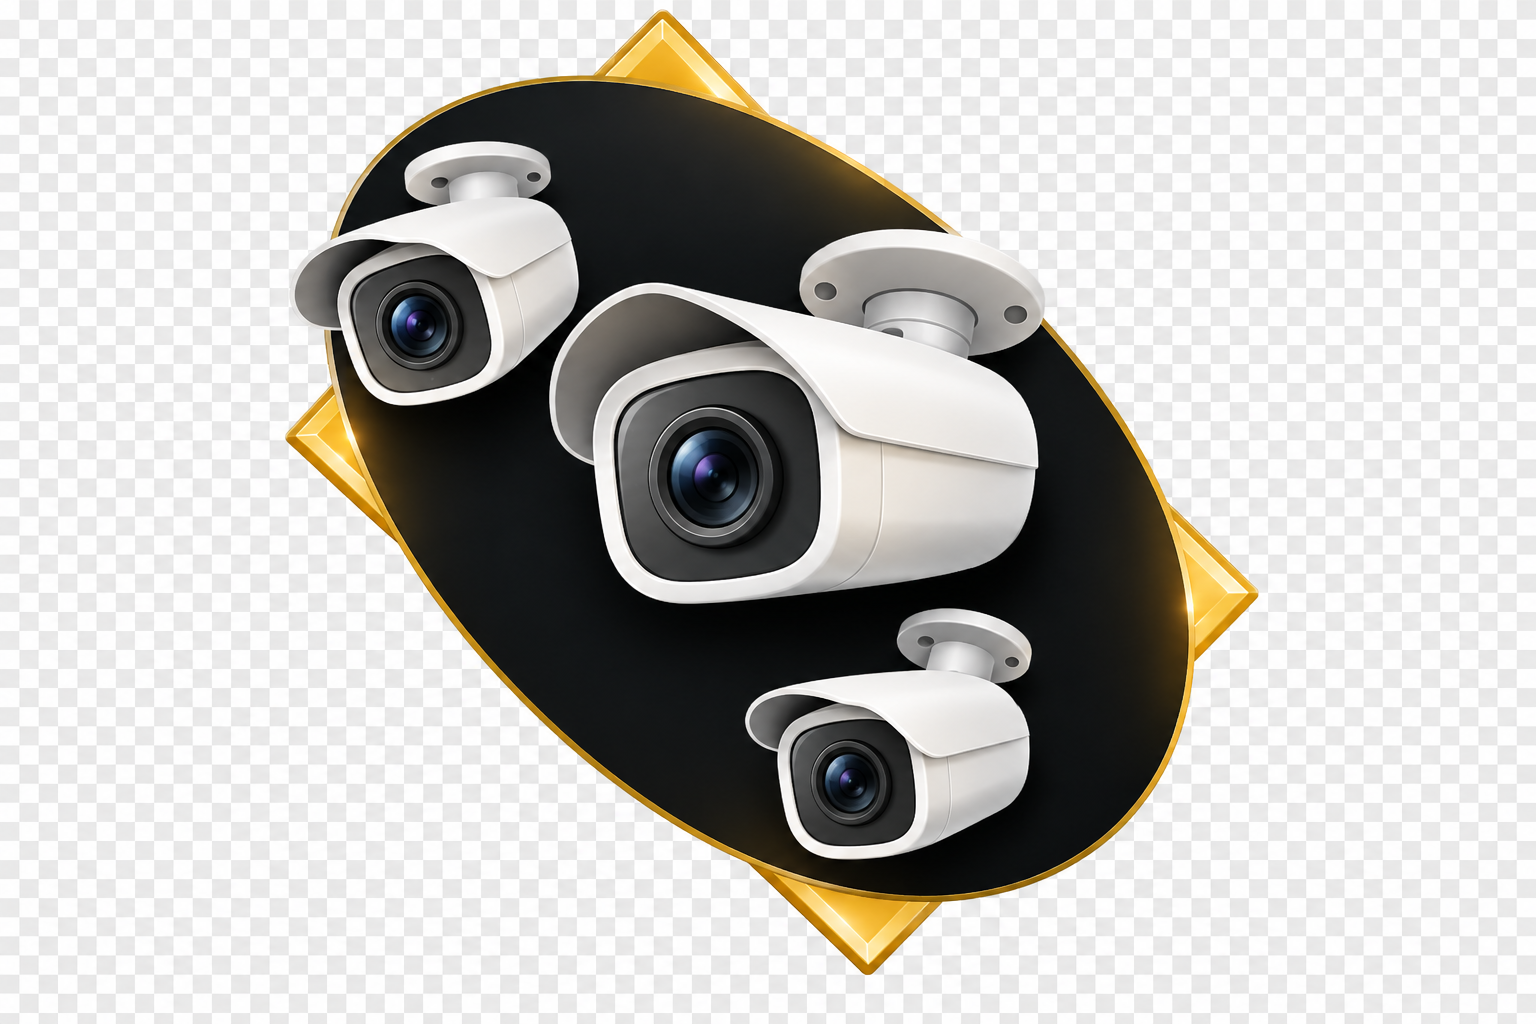
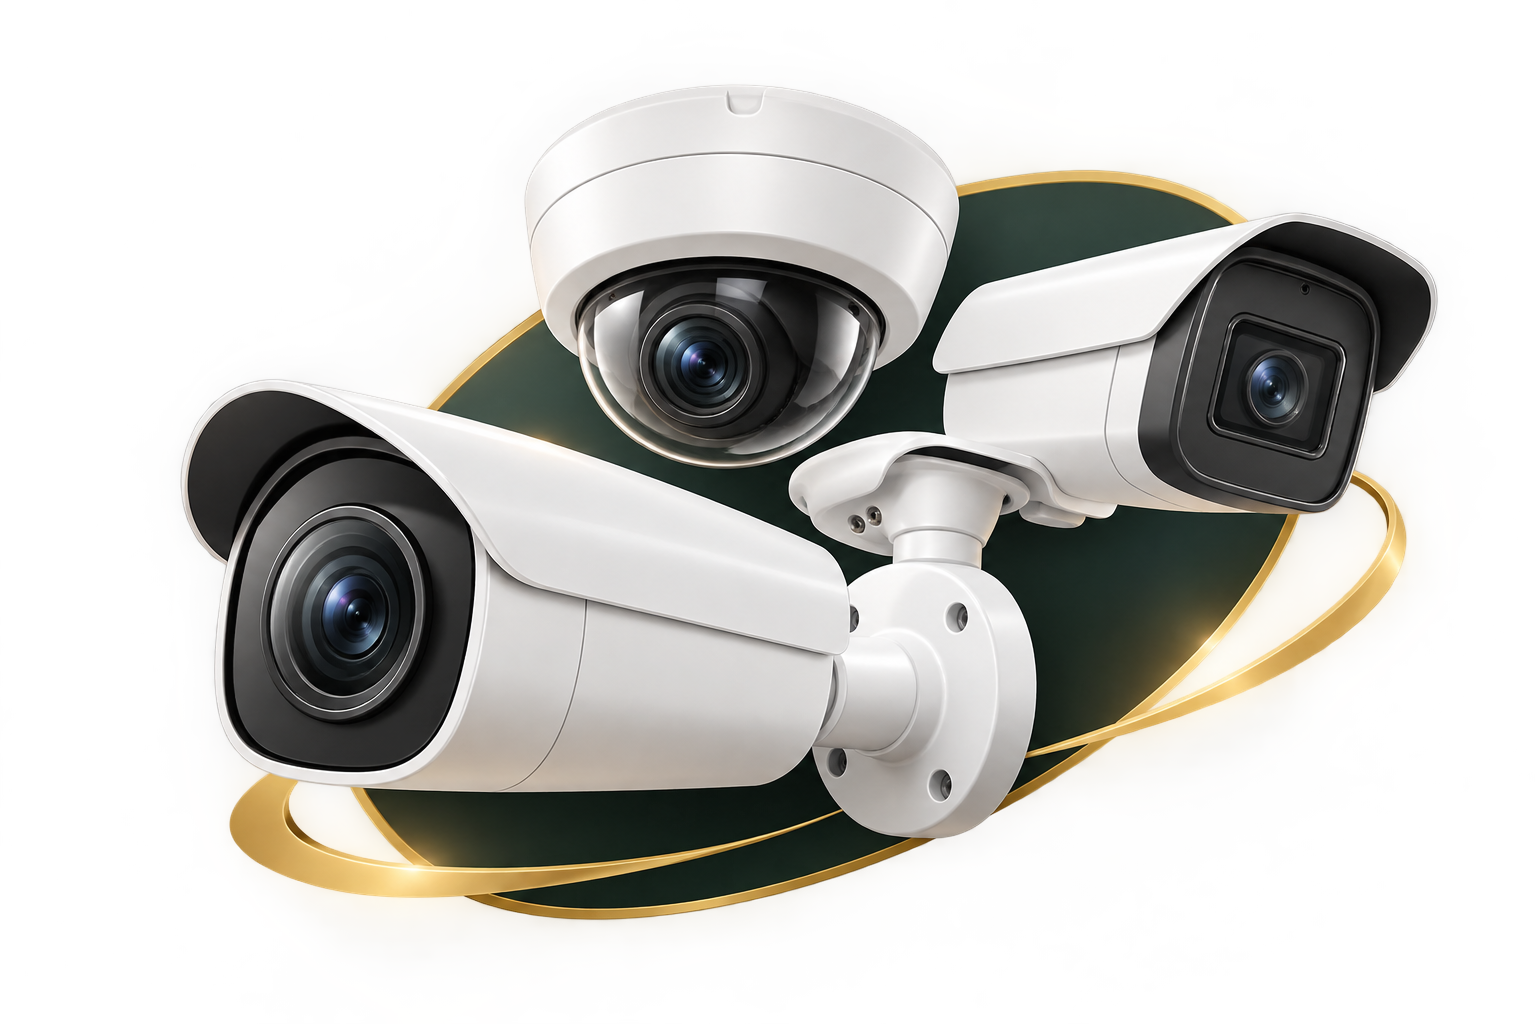
Remove WhatsApp badge from hero, enlarge cctv.png image

diff --git a/landing.css b/landing.css
@@ -47,7 +47,7 @@ a { color: inherit; text-decoration: none; }
 .phone-link span svg { width: 18px; height: 18px; fill: none; stroke: currentColor; stroke-width: 2; stroke-linecap: round; stroke-linejoin: round; }
 .hero-visual { position: relative; min-height: 300px; display: grid; place-items: center; }
 .hero-visual-inner { position: relative; width: min(340px, 90%); display: grid; place-items: center; }
-.hero-cctv-img { width: 100%; max-width: 280px; height: auto; border-radius: 12px; filter: drop-shadow(0 0 24px rgba(245,216,106,.6)); }
+.hero-cctv-img { width: 100%; max-width: 420px; height: auto; border-radius: 16px; filter: drop-shadow(0 0 32px rgba(245,216,106,.7)); }
 .hero-wa-badge { position: absolute; bottom: -12px; right: -8px; display: flex; align-items: center; gap: 8px; padding: 6px 12px; border-radius: 30px; color: #1a1508; background: #fff; box-shadow: 0 4px 16px rgba(0,0,0,.25); font-size: .82rem; font-weight: 700; }
 .hero-wa-logo { width: 32px; height: 32px; border-radius: 50%; }
 .hero-wa-text { color: #1a1508; }

diff --git a/landing.html b/landing.html
@@ -39,10 +39,6 @@
 <div class="hero-visual" aria-hidden="true">
               <div class="hero-visual-inner">
                 <img src="assets/cctv.png" alt="Paket CCTV" class="hero-cctv-img" />
-                <div class="hero-wa-badge">
-                  <img src="assets/wa.logo.jpg" alt="WhatsApp" class="hero-wa-logo" />
-                  <span class="hero-wa-text">0821-3557-6655</span>
-                </div>
               </div>
             </div>
           </div>
